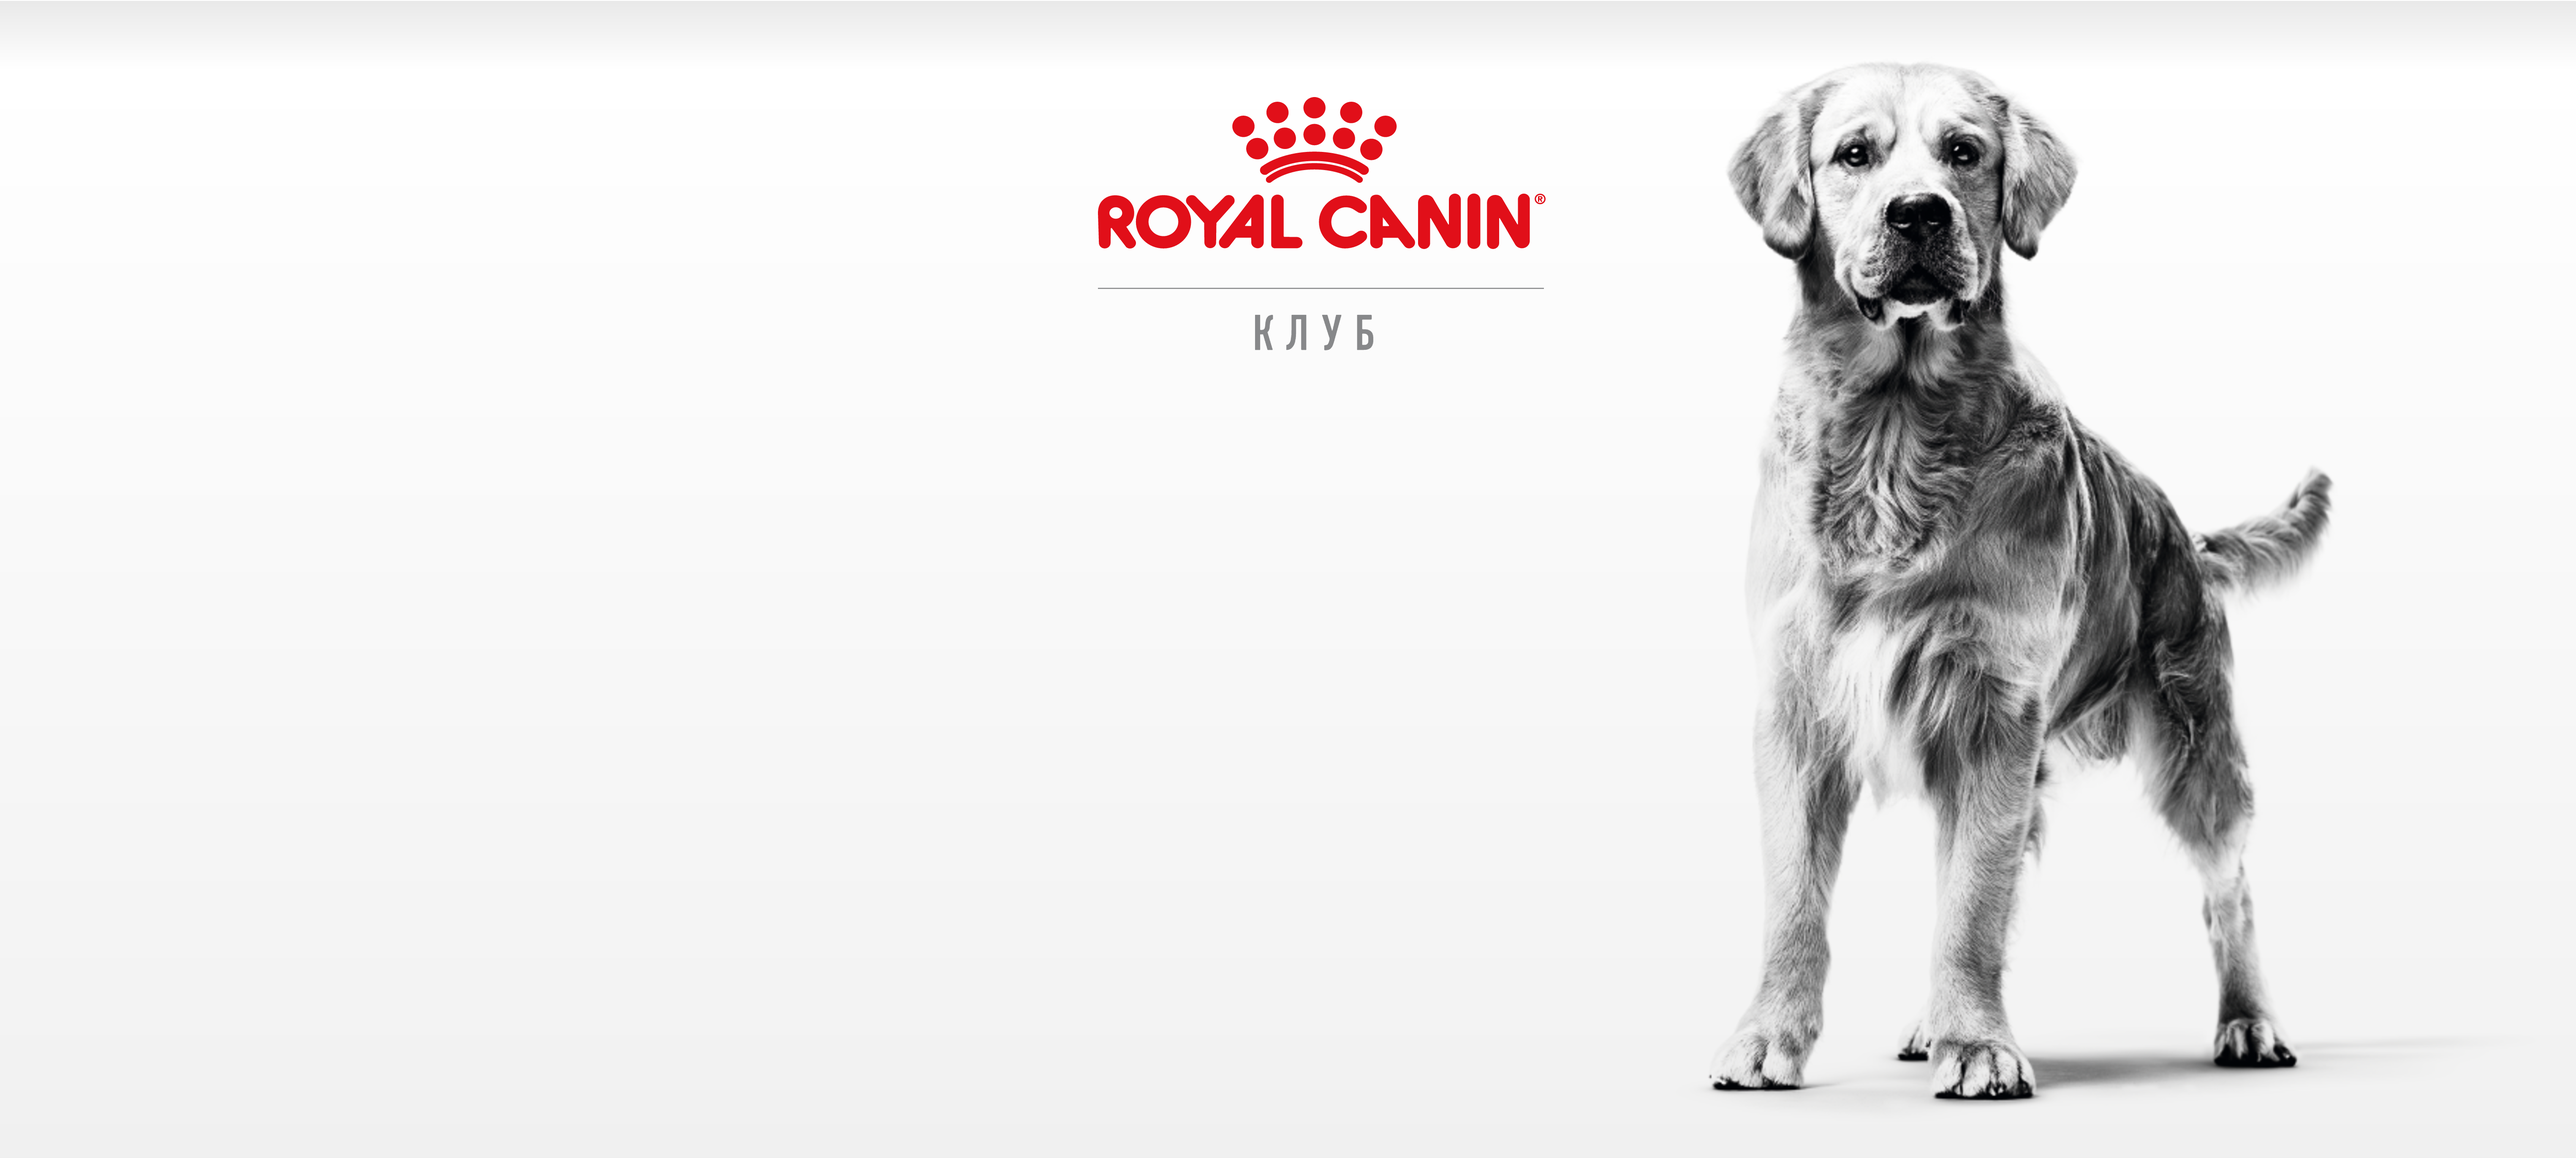
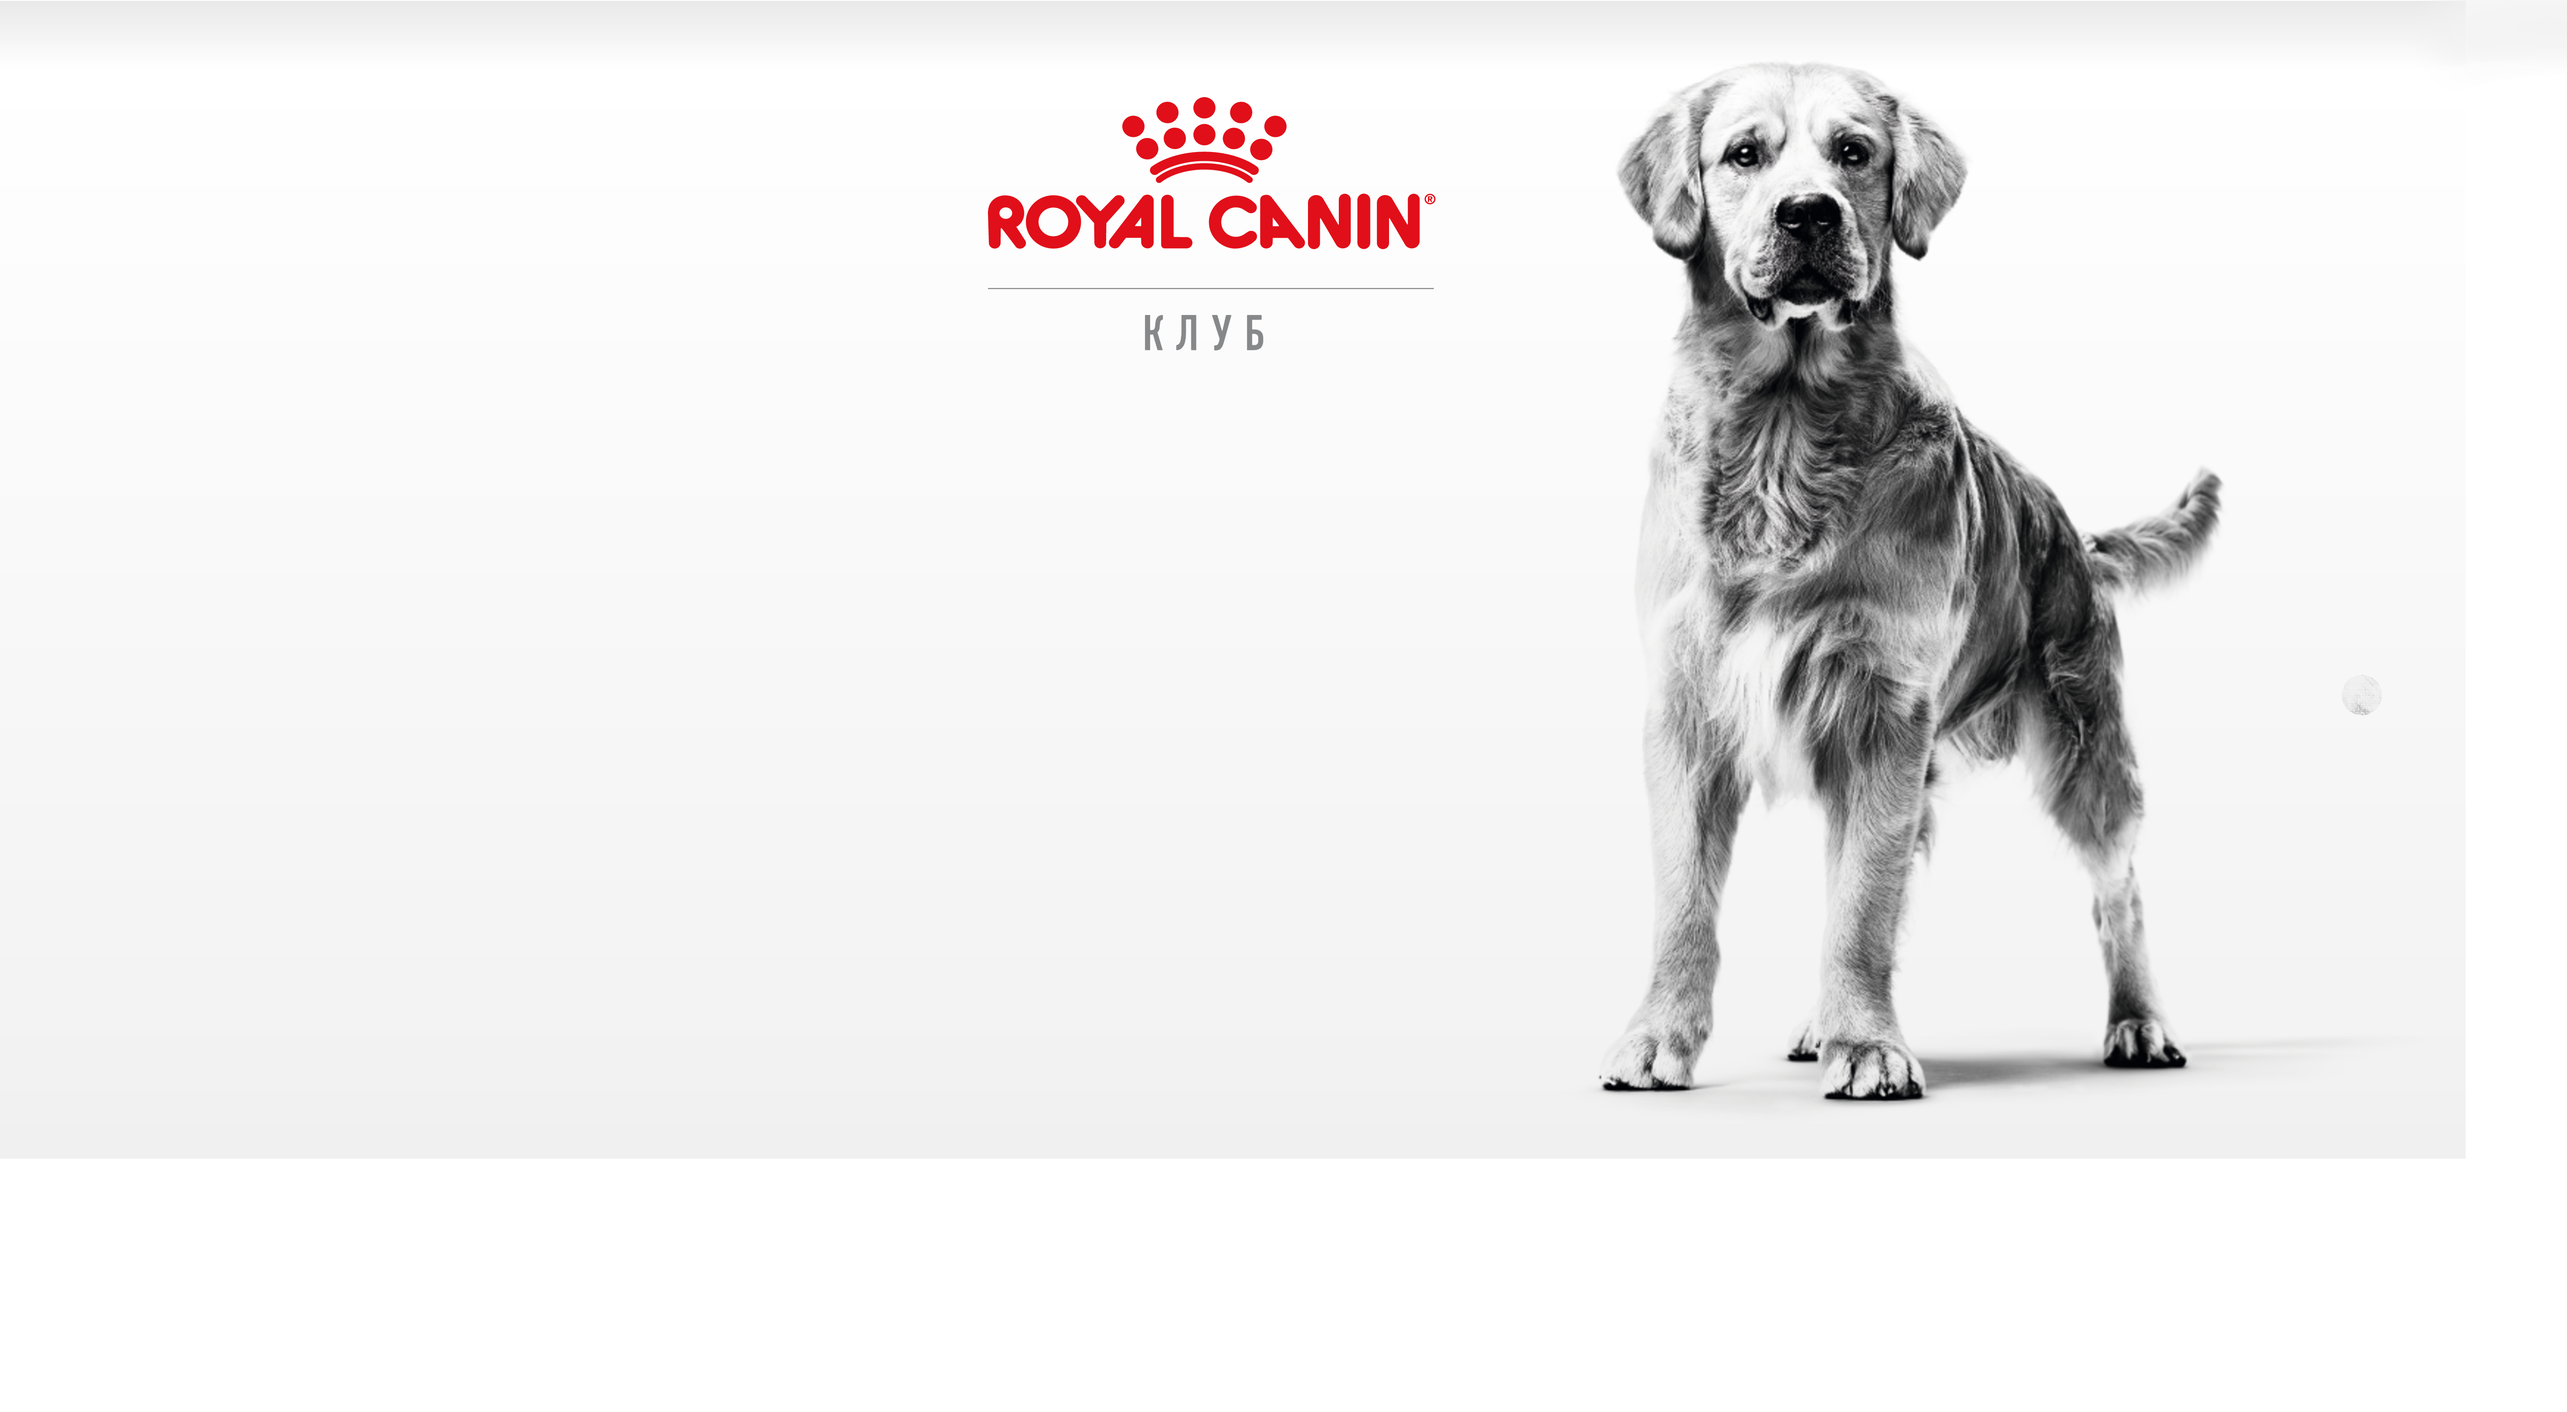
RuALl-FIexd;;;;;;;;;;;;;;;;;;;;;;;;wuwuwuwu

Changed region(s): [[0.625, 0.031, 0.9375, 0.9603], [0.375, 0.062, 0.5938, 0.2478], [0.4688, 0.2478, 0.5312, 0.3098]]

diff --git a/src/components/GoodsDetailTabs/index.js b/src/components/GoodsDetailTabs/index.js
@@ -35,6 +35,8 @@ import benefitsonedog from './image/benefitsonedog.png';
 import benefitstwodog from './image/benefitstwodog.png';
 import benefitsonecat from './image/benefitsonecat.png';
 import benefitstwocat from './image/benefitstwocat.png';
+import clubru from '../../views/ClubLandingPageNew/Components/LongBanner/image/Clubru.png';
+import clublogo from '../../views/ClubLandingPageNew/Components/LongBanner/image/clublogo.png';
 
 const pdpmobilebackgrounddog = {
   backgroundImage: `url(${pdpbackgroundmobiledog})`,
@@ -66,7 +68,7 @@ const pdpbackgrounddogs = {
       ? pdpbackgrounddog
       : pdpbackgorunddogother
   })`,
-  height: '700px',
+  height: '800px',
   backgroundSize: 'cover',
   overflow: 'hidden',
   display: 'flex',
@@ -209,6 +211,9 @@ const GoodsDetailTabs = function (props) {
       }[item] || ''
     );
   };
+  const LogoShows={
+    logo:<></>
+  }
   const SubTitles = {
     title:
       getSpeciesId(goodsDetailSpace) == '1' ? (
@@ -624,7 +629,7 @@ const GoodsDetailTabs = function (props) {
                                     style={{
                                       fontSize: '1em',
                                       textAlign: 'center',
-                                      fontWeight: 'bold'
+                                      fontWeight: '550'
                                     }}
                                   >
                                     <FormattedMessage
@@ -692,6 +697,7 @@ const GoodsDetailTabs = function (props) {
                             <SubscriptionBenefitsBanner
                               SubscriptionItem={SubscriptionItems}
                               Subtitle={SubTitles}
+                              LogoShow={LogoShows}
                             />
                           </div>
                         </div>
@@ -848,7 +854,8 @@ const GoodsDetailTabs = function (props) {
                               <div className="rc-beta  rc-margin-bottom--sm rc-margin-bottom--lg--mobile">
                                 <p
                                   style={{
-                                    fontSize: '1.1em'
+                                    fontSize: '1.1em',
+                                    fontWeight:'550'
                                   }}
                                 >
                                   <FormattedMessage
@@ -902,6 +909,7 @@ const GoodsDetailTabs = function (props) {
                           <SubscriptionBenefitsBanner
                             SubscriptionItem={SubscriptionItems}
                             Subtitle={SubTitles}
+                            LogoShow={LogoShows}
                           />
                         </div>
                       </div>

diff --git a/src/views/ClubLandingPageNew/Components/LongBanner/SubscriprionBenefitsBanner.js b/src/views/ClubLandingPageNew/Components/LongBanner/SubscriprionBenefitsBanner.js
@@ -5,10 +5,8 @@ import benefitsone from './image/benefitsone.png';
 import benefitstwo from './image/benefitstwo.png';
 import benefitsthree from './image/benefitsthree.png';
 import './index.css';
-import clublogo from './image/clublogo.png';
-import clubru from './image/Clubru.png';
 
-const SubscriptionBenefitsBanner = ({ SubscriptionItem, Subtitle }) => {
+const SubscriptionBenefitsBanner = ({ SubscriptionItem, Subtitle,LogoShow }) => {
   return (
     <div className="row rc-margin-x--none">
       <div className="rc-full-width">
@@ -19,12 +17,7 @@ const SubscriptionBenefitsBanner = ({ SubscriptionItem, Subtitle }) => {
                 className="flex "
                 style={{ justifyContent: 'center', padding: '20px' }}
               >
-                <img
-                  style={{ width: '100px' }}
-                  src={
-                    process.env.REACT_APP_COUNTRY == 'ru' ? clubru : clublogo
-                  }
-                />
+                {LogoShow.logo}
               </div>
               <div className="rc-margin-bottom--md rc-margin-bottom--xl--mobile text-center">
                 <div

diff --git a/src/views/ClubLandingPageNew/Components/LongBanner/index.js b/src/views/ClubLandingPageNew/Components/LongBanner/index.js
@@ -6,9 +6,20 @@ import benefitsone from './image/benefitsone.png';
 import benefitstwo from './image/benefitstwo.png';
 import benefitsthree from './image/benefitsthree.png';
 import DistributeHubLinkOrATag from '@/components/DistributeHubLinkOrATag';
+import clublogo from './image/clublogo.png';
+import clubru from './image/Clubru.png';
+
 const SubTitles = {
   title: <FormattedMessage id="ClubLP.LongBanner.SubscriptionTitle" />
 };
+const LogoShows={
+  logo:<img
+    style={{ width: '100px' }}
+    src={
+      process.env.REACT_APP_COUNTRY == 'ru' ? clubru : clublogo
+    }
+  />
+}
 const SubscriptionItems = [
   {
     SubscriptionImg: benefitsone,
@@ -109,6 +120,7 @@ const LongBanner = () => {
         <SubscriptionBenefitsBanner
           SubscriptionItem={SubscriptionItems}
           Subtitle={SubTitles}
+          LogoShow={LogoShows}
         />
       </div>
     </>
